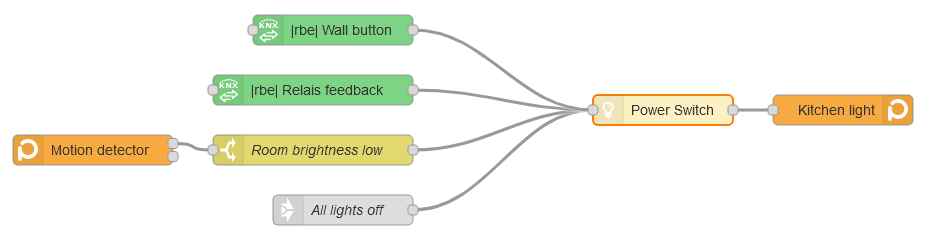
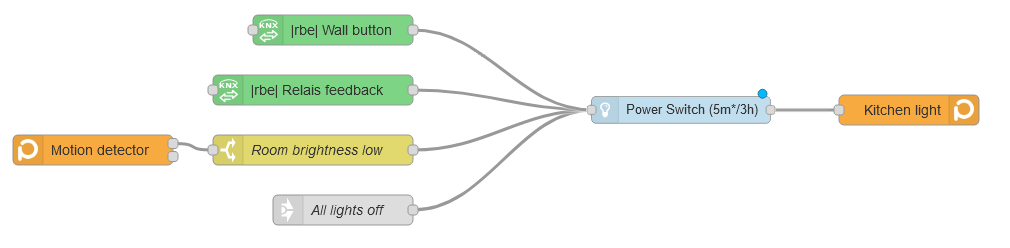
* Showing time setting in node title (addressing #8). * Fixes in package.json to satisfy Node-RED scoreboard. * Updated screenshots, README.md and help files accordingly.

Changed region(s): [[0.0, 0.254, 0.9925, 0.9315], [0.2481, 0.0565, 0.5273, 0.2823]]

diff --git a/nodes/locales/en-US/powerswitch.html b/nodes/locales/en-US/powerswitch.html
@@ -1,6 +1,7 @@
 <script type="text/html" data-help-name="powerswitch">
     <p>Power switch (on-/off switch) for lights, smart plugs or anything else supporting on/off commands.</p>
     <p>Control the output with a pushbutton, motion detector, over the web or whatever.</p>
+    <p>The node title shows either "Power Switch" or the configured name, together with the time settings. First value shows the configured timeout, followed by a star, if the option "Override with msg.timeout at 'Off Payload'" is enabled. Second value shows the absolute timeout, if enabled.</p>
 
     <h3>Inputs</h3>
     <dl class="message-properties">
@@ -25,17 +26,16 @@
         <p>Defines the name of the function as it appears on your board.</p>
         
         <h4 style="font-weight: bolder;">Toggle command</h4>
-        <p>Configure topic and payload of an incoming message to invert the control output. If the feedback option is enabled, the output sends the inverted signal of the last received feedback signal. If the feedback option is disabled, the output sends the inverted signal of the last sent control output.</p>.
+        <p>Configure topic and payload of an incoming message to invert the control output. If the feedback option is enabled, the output sends the inverted signal of the last received feedback signal. If the feedback option is disabled, the output sends the inverted signal of the last sent control output.</p>
             
         <h4 style="font-weight: bolder;">Motion detector</h4>
-        <p>Configure topic and payload of an incoming message suiting the message of your motion detector. 'On payload' is the coming (motion started), 'Off payload' is the going (motion ended) event of the motion detector. The control output is switched on when an on message is received. The configured timeout starts to count down when the off message is received, after which the control output turns off. The timeout can be manipulated with a message (see 'Inputs', msg.timeout).
-        </p>
+        <p>Configure topic and payload of an incoming message suiting the message of your motion detector. 'On payload' is the coming (motion started), 'Off payload' is the going (motion ended) event of the motion detector. The control output is switched on when an on message is received. The configured timeout starts to count down when the off message is received, after which the control output turns off. The timeout can be manipulated with a message (see 'Inputs', msg.timeout).</p>
         
         <h4 style="font-weight: bolder;">Force command</h4>
         <p>With a corresponding message you can switch the control output on or off, depending on whether the received payload corresponds to the configured on or off payload. The topic of the message must correspond to the configuration. For example, use this for a button in your home to force your devices on or off, such as a push button to turn off all the lights.</p>
 
         <h4 style="font-weight: bolder;">Device Feedback</h4>
-        <p>If the device you are controlling provides feedback, enable this option and connect your signal to the node. If the option is disabled, the function thinks that the device is on or off at the moment the control command is sent. However, if the option is enabled and a control command is sent, the function waits for the actuator's feedback.</p>.
+        <p>If the device you are controlling provides feedback, enable this option and connect your signal to the node. If the option is disabled, the function thinks that the device is on or off at the moment the control command is sent. However, if the option is enabled and a control command is sent, the function waits for the actuator's feedback.</p>
 
         <h4 style="font-weight: bolder;">Timeout</h4>
         <p>Activate this option if you want to configure an absolute timeout. The control output will then never be on longer than this time. If the device is now switched on, this time starts to run. After the time has ended, the device will be switched off. Use this option to never again forget to turn off a device.</p>

diff --git a/nodes/locales/de/powerswitch.html b/nodes/locales/de/powerswitch.html
@@ -1,6 +1,7 @@
 <script type="text/html" data-help-name="powerswitch">
     <p>Power switch (Ein-/Ausschalter) für Lichter, smarte Steckdosen oder alles andere, das ein/aus Kommandos untertstützt.</p>
     <p>Steuere den Ausgang mit Tastern, Bewegungsmeldern, über das Web oder was auch immer.</p>
+    <p>Der node Titel zwigt entweder "Power Switch" oder den konfigurierten Namen an, gefolgt von den Zeiteinstellungen. Der erste Wert zeigt die konfigurierte Laufzeit, gefolgt von einem Sternchen, wenn die Option "Überschreibe mit msg.timeout im 'Aus Payload'" aktiviert wurde. Der zweite Wert zeigt die eingestellte maximale Einschaltdauer, sofern diese aktiviert wurde.</p>
 
     <h3>Eingänge</h3>
     <dl class="message-properties">

diff --git a/nodes/powerswitch.html b/nodes/powerswitch.html
@@ -147,7 +147,10 @@ TODO
         outputs: 1,
         icon: "font-awesome/fa-lightbulb-o",
         label: function() {
-            return this.name || "Power Switch"
+            let app = this.motionTimeoutValue + this.motionTimeoutUnit
+            if (this.motionTimeoutOverride) {app = app + "*"}
+            if (this.absTimeoutActive) {app = app + "/" + this.absTimeoutValue + this.absTimeoutUnit}
+            return (this.name || "Power Switch") + " (" + app + ")"
         },
         oneditprepare: function() {
             if (this.togglePayloadType === 'initval') {

diff --git a/README.md b/README.md
@@ -1,5 +1,15 @@
 ## Power Switch
-This node enables you to control anything, which can be controlled with an on and off command, quite comfortably. Control your device with the use of a toggle button or force the output with on/off commands. You can use one or more motion detectors and configure a relevant timeout. Configure a timer, after which the device will be turned off, and never forget anymore to power off your light. Send the actuator feedback to the block for more smart features. Once installed, find details in the node manual (or [preview raw on GitHub](https://github.com/danube/node-red-contrib-smarthome-powerswitch/blob/81de2557f156b98480ec00a5bf342f443455933e/nodes/powerswitch.html).)
+**This node enables you to control anything, which can be controlled with an on and off command, quite comfortably.**
+
+Control your device with the use of a **toggle button** or **force the output** with on/off commands. You can use one or more **motion detectors** and **configure a relevant timeout**. Configure a timer, after which the **device will be turned off**, and never forget anymore to power off your light. Send the **actuator feedback** to the block for more smart features.
+
+The **node title** shows either "Power Switch" or the configured name, together with the time settings. First value shows the configured timeout, followed by a star, if the option "Override with msg.timeout at 'Off Payload'" is enabled. Second value shows the absolute timeout, if enabled. Examples:
+* "Power Switch (2m*/1h)" - No individual name given, 2 minutes timeout, override enabled, 1 hour absolute timeout.
+* "Kitchen light (3m)" - Individual name "Kitchen light given", 3 minutes timeout, no override, no absolute timeout.
+
+Once installed, find details in the node manual (or [preview raw on GitHub](https://github.com/danube/node-red-contrib-smarthome-powerswitch/blob/81de2557f156b98480ec00a5bf342f443455933e/nodes/powerswitch.html).)
+
+You may also be interested in the **exmaples** coming with the installation. Once installed, in Node-RED go to "Import", choose "Examples" and expand "node-red-contrib-smarthome-powerswitch".
 
 ### Example
 <img src="https://github.com/danube/node-red-contrib-smarthome-powerswitch/raw/main/files/screenshots/powerswitch-example.png" width="600px" style="border:1px dashed grey">

diff --git a/CHANGELOG.md b/CHANGELOG.md
@@ -1,3 +1,14 @@
+# 1.0.10
+* Showing time setting in node title (addressing #8).
+* Fixes in package.json to satisfy Node-RED scoreboard.
+* Updated screenshots, README.md and help files accordingly.
+
+# 1.0.9
+* Added engines section and node-red min version keyword to package.json.
+
+# 1.0.8
+* Added example nodes.
+
 # 1.0.7
 * No code change. Just added info to doc what happens if msg.timeout is invalid (#9).
 
